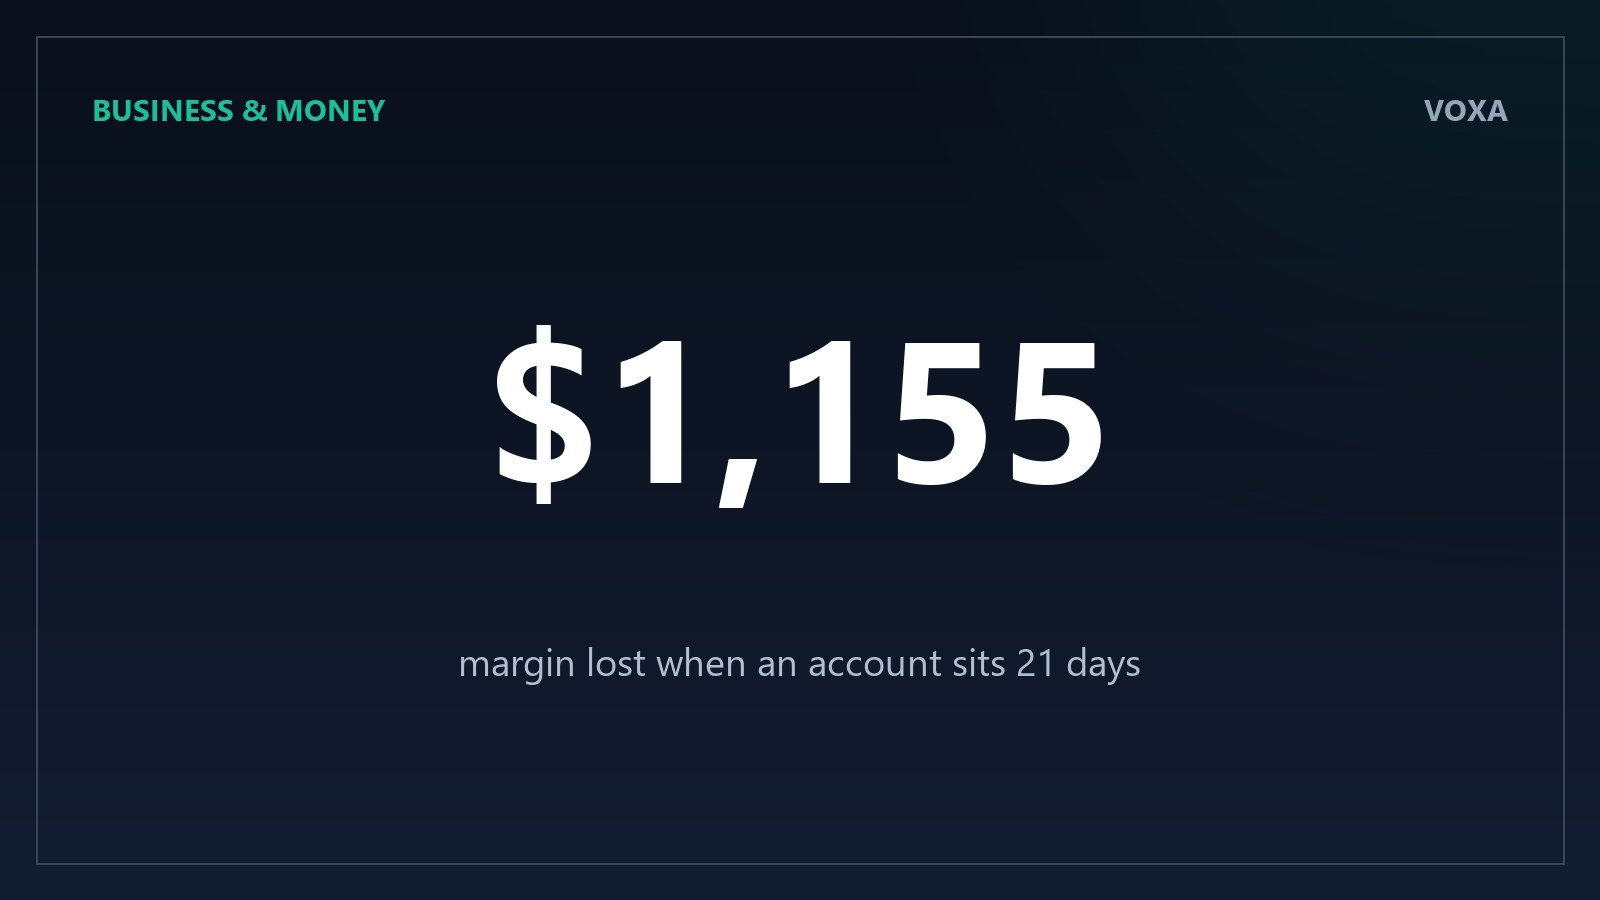
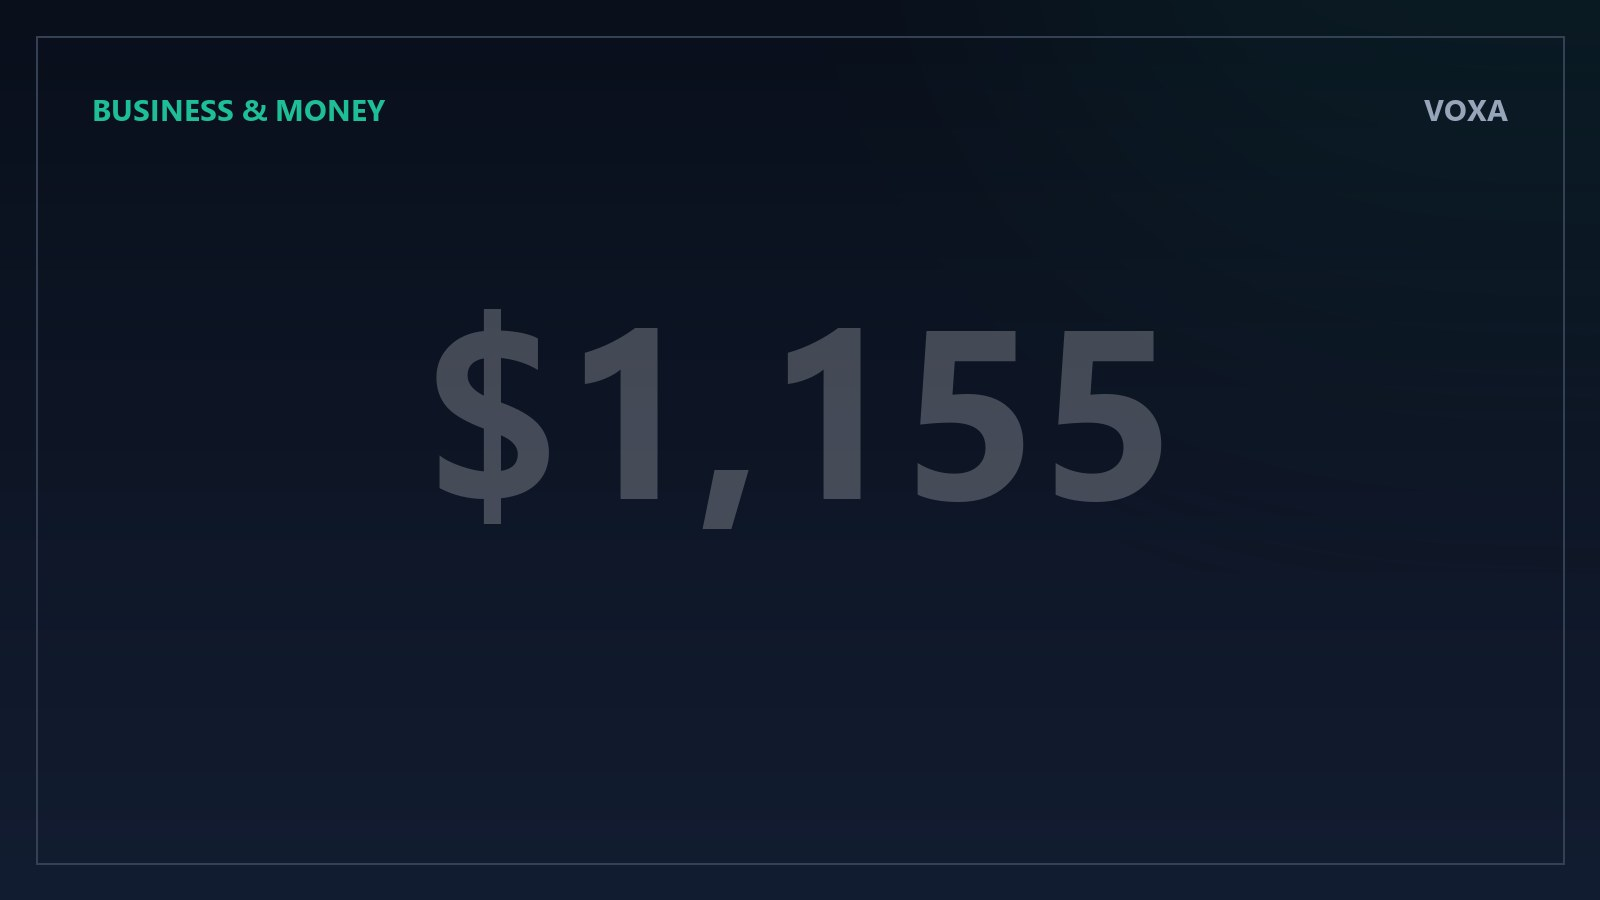
Blog covers: watermark style so the hero title stays readable

Changed region(s): [[0.4688, 0.3422, 0.75, 0.56], [0.25, 0.3422, 0.4688, 0.5911], [0.2812, 0.7156, 0.7188, 0.7778]]

diff --git a/blog/index.html b/blog/index.html
@@ -130,7 +130,7 @@ footer a{display:block;margin-bottom:7px}
 <section style="padding-bottom:70px"><div class="wrap"><a class="bfeat" href="/blog/ai-free-tier-shrinking/"> <img src="/blog-images/ai-free-tier-shrinking.jpg" alt="The AI Free Tier Is Shrinking: What Five Tools Changed in 2026" width="1600" height="900"> <div class="bfeat__grad"></div> <div class="bfeat__body"><span class="bpill">Technology</span><h2>The AI Free Tier Is Shrinking: What Five Tools Changed in 2026</h2><p>Two tools removed their free plan, one dropped its $50 tier, one cut prices by 87%. Here is what each plan really buys now…</p> <div class="bmeta">19 November 2026 · 8 min read</div></div></a>
 <div class="bcat-head"><h2 class="hd" style="font-size:24px;margin:0">Technology</h2><a href="/blog/technology/">View all →</a></div>
 <div class="bgrid" style="grid-template-columns:repeat(2,1fr)"><a class="bcard" href="/blog/ad-policy-rules-checklist/">
-  <img src="/blog-images/ad-policy-rules-checklist.jpg" alt="What 89 Ad Policy Rules Actually Catch, and the 11 That Slip" width="1600" height="900" loading="lazy">
+  <img src="/blog-images/ad-policy-rules-checklist.jpg?v=2" alt="What 89 Ad Policy Rules Actually Catch, and the 11 That Slip" width="1600" height="900" loading="lazy">
   <div class="bcard__body"><span class="bpill" style="align-self:flex-start">Technology</span>
   <h3>What 89 Ad Policy Rules Actually Catch, and the 11 That Slip</h3><p>The 89 rules, split by what they check, and the eleven things a rule list can never catch: the photo, the voiceover, your account history.</p><div class="bcard__meta">26 November 2026 · 7 min read</div></div></a><a class="bcard" href="/blog/preflight-ad-check/">
   <img src="/blog-images/preflight-ad-check.jpg" alt="What a Pre-Flight Ad Check Catches, and What It Cannot" width="1600" height="900" loading="lazy">
@@ -164,7 +164,7 @@ footer a{display:block;margin-bottom:7px}
 </div>
 <div class="bcat-head"><h2 class="hd" style="font-size:24px;margin:0">Marketing</h2><a href="/blog/marketing/">View all →</a></div>
 <div class="bgrid" style="grid-template-columns:repeat(2,1fr)"><a class="bcard" href="/blog/bulk-launch-ads-rejection/">
-  <img src="/blog-images/bulk-launch-ads-rejection.jpg" alt="One Rejected Line, Nine Live Ads: Why Bulk Launching Multiplies a Policy Mistake" width="1600" height="900" loading="lazy">
+  <img src="/blog-images/bulk-launch-ads-rejection.jpg?v=2" alt="One Rejected Line, Nine Live Ads: Why Bulk Launching Multiplies a Policy Mistake" width="1600" height="900" loading="lazy">
   <div class="bcard__body"><span class="bpill" style="align-self:flex-start">Marketing</span>
   <h3>One Rejected Line, Nine Live Ads: Why Bulk Launching Multiplies a Policy Mistake</h3><p>27 ads from one afternoon of setup, with the same copy line inside nine of them. The arithmetic of a bulk launch, and the order that stops the spread.</p><div class="bcard__meta">26 November 2026 · 6 min read</div></div></a><a class="bcard" href="/blog/facebook-ad-rejection-lines/">
   <img src="/blog-images/facebook-ad-rejection-lines.jpg" alt="The Lines That Get a Facebook Ad Rejected in 2026" width="1600" height="900" loading="lazy">
@@ -194,7 +194,7 @@ footer a{display:block;margin-bottom:7px}
 </div>
 <div class="bcat-head"><h2 class="hd" style="font-size:24px;margin:0">Business &amp; Money</h2><a href="/blog/business/">View all →</a></div>
 <div class="bgrid" style="grid-template-columns:repeat(2,1fr)"><a class="bcard" href="/blog/ad-account-banned-cost/">
-  <img src="/blog-images/ad-account-banned-cost.jpg" alt="What a Banned Ad Account Costs, in Money and in Weeks" width="1600" height="900" loading="lazy">
+  <img src="/blog-images/ad-account-banned-cost.jpg?v=2" alt="What a Banned Ad Account Costs, in Money and in Weeks" width="1600" height="900" loading="lazy">
   <div class="bcard__body"><span class="bpill" style="align-self:flex-start">Business & Money</span>
   <h3>What a Banned Ad Account Costs, in Money and in Weeks</h3><p>Three weeks down on a $3,000 account costs about $1,155 of margin, plus two weeks of rebuilding. What comes back and what never does.</p><div class="bcard__meta">26 November 2026 · 6 min read</div></div></a><a class="bcard" href="/blog/what-an-hour-is-worth/">
   <img src="/blog-images/what-an-hour-is-worth.jpg" alt="What an Hour of Your Time Is Worth, Calculated" width="1600" height="900" loading="lazy">

diff --git a/blog/marketing/index.html b/blog/marketing/index.html
@@ -127,7 +127,7 @@ footer a{display:block;margin-bottom:7px}
 @media(max-width:640px){.nav{height:auto;padding-top:8px}.navlinks{flex-wrap:wrap;overflow:visible;gap:2px 16px;font-size:13.5px;padding:4px 0 10px}.navlinks a{padding:2px 0}}</style><div class="hero" style="padding:52px 0 34px"><div class="wrap"><p style="font-size:13px;letter-spacing:2px;text-transform:uppercase;font-weight:800;color:rgba(255,255,255,.78)">Category</p>
 <h1 class="hd" style="font-size:46px;margin-top:4px">Marketing</h1><p class="herosub">7 articles on marketing for small US businesses.</p></div></div>
 <section style="padding:10px 0 70px"><div class="wrap"><div class="bgrid" style="grid-template-columns:repeat(2,1fr)"><a class="bcard" href="/blog/bulk-launch-ads-rejection/">
-  <img src="/blog-images/bulk-launch-ads-rejection.jpg" alt="One Rejected Line, Nine Live Ads: Why Bulk Launching Multiplies a Policy Mistake" width="1600" height="900" loading="lazy">
+  <img src="/blog-images/bulk-launch-ads-rejection.jpg?v=2" alt="One Rejected Line, Nine Live Ads: Why Bulk Launching Multiplies a Policy Mistake" width="1600" height="900" loading="lazy">
   <div class="bcard__body"><span class="bpill" style="align-self:flex-start">Marketing</span>
   <h3>One Rejected Line, Nine Live Ads: Why Bulk Launching Multiplies a Policy Mistake</h3><p>27 ads from one afternoon of setup, with the same copy line inside nine of them. The arithmetic of a bulk launch, and the order that stops the spread.</p><div class="bcard__meta">26 November 2026 · 6 min read</div></div></a>
 <a class="bcard" href="/blog/facebook-ad-rejection-lines/">

diff --git a/blog/technology/index.html b/blog/technology/index.html
@@ -127,7 +127,7 @@ footer a{display:block;margin-bottom:7px}
 @media(max-width:640px){.nav{height:auto;padding-top:8px}.navlinks{flex-wrap:wrap;overflow:visible;gap:2px 16px;font-size:13.5px;padding:4px 0 10px}.navlinks a{padding:2px 0}}</style><div class="hero" style="padding:52px 0 34px"><div class="wrap"><p style="font-size:13px;letter-spacing:2px;text-transform:uppercase;font-weight:800;color:rgba(255,255,255,.78)">Category</p>
 <h1 class="hd" style="font-size:46px;margin-top:4px">Technology</h1><p class="herosub">8 articles on technology for small US businesses.</p></div></div>
 <section style="padding:10px 0 70px"><div class="wrap"><div class="bgrid" style="grid-template-columns:repeat(2,1fr)"><a class="bcard" href="/blog/ad-policy-rules-checklist/">
-  <img src="/blog-images/ad-policy-rules-checklist.jpg" alt="What 89 Ad Policy Rules Actually Catch, and the 11 That Slip" width="1600" height="900" loading="lazy">
+  <img src="/blog-images/ad-policy-rules-checklist.jpg?v=2" alt="What 89 Ad Policy Rules Actually Catch, and the 11 That Slip" width="1600" height="900" loading="lazy">
   <div class="bcard__body"><span class="bpill" style="align-self:flex-start">Technology</span>
   <h3>What 89 Ad Policy Rules Actually Catch, and the 11 That Slip</h3><p>The 89 rules, split by what they check, and the eleven things a rule list can never catch: the photo, the voiceover, your account history.</p><div class="bcard__meta">26 November 2026 · 7 min read</div></div></a>
 <a class="bcard" href="/blog/preflight-ad-check/">

diff --git a/blog/business/index.html b/blog/business/index.html
@@ -127,7 +127,7 @@ footer a{display:block;margin-bottom:7px}
 @media(max-width:640px){.nav{height:auto;padding-top:8px}.navlinks{flex-wrap:wrap;overflow:visible;gap:2px 16px;font-size:13.5px;padding:4px 0 10px}.navlinks a{padding:2px 0}}</style><div class="hero" style="padding:52px 0 34px"><div class="wrap"><p style="font-size:13px;letter-spacing:2px;text-transform:uppercase;font-weight:800;color:rgba(255,255,255,.78)">Category</p>
 <h1 class="hd" style="font-size:46px;margin-top:4px">Business & Money</h1><p class="herosub">7 articles on business & money for small US businesses.</p></div></div>
 <section style="padding:10px 0 70px"><div class="wrap"><div class="bgrid" style="grid-template-columns:repeat(2,1fr)"><a class="bcard" href="/blog/ad-account-banned-cost/">
-  <img src="/blog-images/ad-account-banned-cost.jpg" alt="What a Banned Ad Account Costs, in Money and in Weeks" width="1600" height="900" loading="lazy">
+  <img src="/blog-images/ad-account-banned-cost.jpg?v=2" alt="What a Banned Ad Account Costs, in Money and in Weeks" width="1600" height="900" loading="lazy">
   <div class="bcard__body"><span class="bpill" style="align-self:flex-start">Business & Money</span>
   <h3>What a Banned Ad Account Costs, in Money and in Weeks</h3><p>Three weeks down on a $3,000 account costs about $1,155 of margin, plus two weeks of rebuilding. What comes back and what never does.</p><div class="bcard__meta">26 November 2026 · 6 min read</div></div></a>
 <a class="bcard" href="/blog/what-an-hour-is-worth/">

diff --git a/blog/bulk-launch-ads-rejection/index.html b/blog/bulk-launch-ads-rejection/index.html
@@ -117,7 +117,7 @@ footer a{display:block;margin-bottom:7px}
 .answerbox p{margin-top:8px}
 @media(max-width:900px){.bgrid{grid-template-columns:1fr}.bfeat img{height:280px}.bfeat__body{padding:18px}.bfeat__body h2{font-size:21px}.bfeat__body p{display:none}.posthero img{height:300px}.posthero__body{padding-bottom:22px}.posthero__body h1{font-size:25px}.postbody{padding:30px 18px 56px}.postbody h2{font-size:22px}.bcat-head{margin-top:32px}}
 @media(max-width:640px){.nav{height:auto;padding-top:8px}.navlinks{flex-wrap:wrap;overflow:visible;gap:2px 16px;font-size:13.5px;padding:4px 0 10px}.navlinks a{padding:2px 0}}</style>
-<div class="posthero"><img src="/blog-images/bulk-launch-ads-rejection.jpg" alt="A dark card with the number 9, the live ads one rejected copy line reaches" width="1600" height="900">
+<div class="posthero"><img src="/blog-images/bulk-launch-ads-rejection.jpg?v=2" alt="A dark card with the number 9, the live ads one rejected copy line reaches" width="1600" height="900">
   <div class="posthero__grad"></div>
   <div class="posthero__body"><div class="bwrap"><span class="bpill">Marketing</span><h1>One Rejected Line, Nine Live Ads: Why Bulk Launching Multiplies a Policy Mistake</h1> <div class="bmeta">26 November 2026 · 6 min read · VOXA editorial</div></div></div></div>
 <article class="postbody">

diff --git a/blog/ad-account-banned-cost/index.html b/blog/ad-account-banned-cost/index.html
@@ -117,7 +117,7 @@ footer a{display:block;margin-bottom:7px}
 .answerbox p{margin-top:8px}
 @media(max-width:900px){.bgrid{grid-template-columns:1fr}.bfeat img{height:280px}.bfeat__body{padding:18px}.bfeat__body h2{font-size:21px}.bfeat__body p{display:none}.posthero img{height:300px}.posthero__body{padding-bottom:22px}.posthero__body h1{font-size:25px}.postbody{padding:30px 18px 56px}.postbody h2{font-size:22px}.bcat-head{margin-top:32px}}
 @media(max-width:640px){.nav{height:auto;padding-top:8px}.navlinks{flex-wrap:wrap;overflow:visible;gap:2px 16px;font-size:13.5px;padding:4px 0 10px}.navlinks a{padding:2px 0}}</style>
-<div class="posthero"><img src="/blog-images/ad-account-banned-cost.jpg" alt="A dark card with $1,155, the margin lost while an ad account sits down for three weeks" width="1600" height="900">
+<div class="posthero"><img src="/blog-images/ad-account-banned-cost.jpg?v=2" alt="A dark card with $1,155, the margin lost while an ad account sits down for three weeks" width="1600" height="900">
   <div class="posthero__grad"></div>
   <div class="posthero__body"><div class="bwrap"><span class="bpill">Business & Money</span><h1>What a Banned Ad Account Costs, in Money and in Weeks</h1> <div class="bmeta">26 November 2026 · 6 min read · VOXA editorial</div></div></div></div>
 <article class="postbody">

diff --git a/blog/ad-policy-rules-checklist/index.html b/blog/ad-policy-rules-checklist/index.html
@@ -117,7 +117,7 @@ footer a{display:block;margin-bottom:7px}
 .answerbox p{margin-top:8px}
 @media(max-width:900px){.bgrid{grid-template-columns:1fr}.bfeat img{height:280px}.bfeat__body{padding:18px}.bfeat__body h2{font-size:21px}.bfeat__body p{display:none}.posthero img{height:300px}.posthero__body{padding-bottom:22px}.posthero__body h1{font-size:25px}.postbody{padding:30px 18px 56px}.postbody h2{font-size:22px}.bcat-head{margin-top:32px}}
 @media(max-width:640px){.nav{height:auto;padding-top:8px}.navlinks{flex-wrap:wrap;overflow:visible;gap:2px 16px;font-size:13.5px;padding:4px 0 10px}.navlinks a{padding:2px 0}}</style>
-<div class="posthero"><img src="/blog-images/ad-policy-rules-checklist.jpg" alt="A dark card with the number 11, the gaps in an 89 rule ad policy checklist" width="1600" height="900">
+<div class="posthero"><img src="/blog-images/ad-policy-rules-checklist.jpg?v=2" alt="A dark card with the number 11, the gaps in an 89 rule ad policy checklist" width="1600" height="900">
   <div class="posthero__grad"></div>
   <div class="posthero__body"><div class="bwrap"><span class="bpill">Technology</span><h1>What 89 Ad Policy Rules Actually Catch, and the 11 That Slip</h1> <div class="bmeta">26 November 2026 · 7 min read · VOXA editorial</div></div></div></div>
 <article class="postbody">
